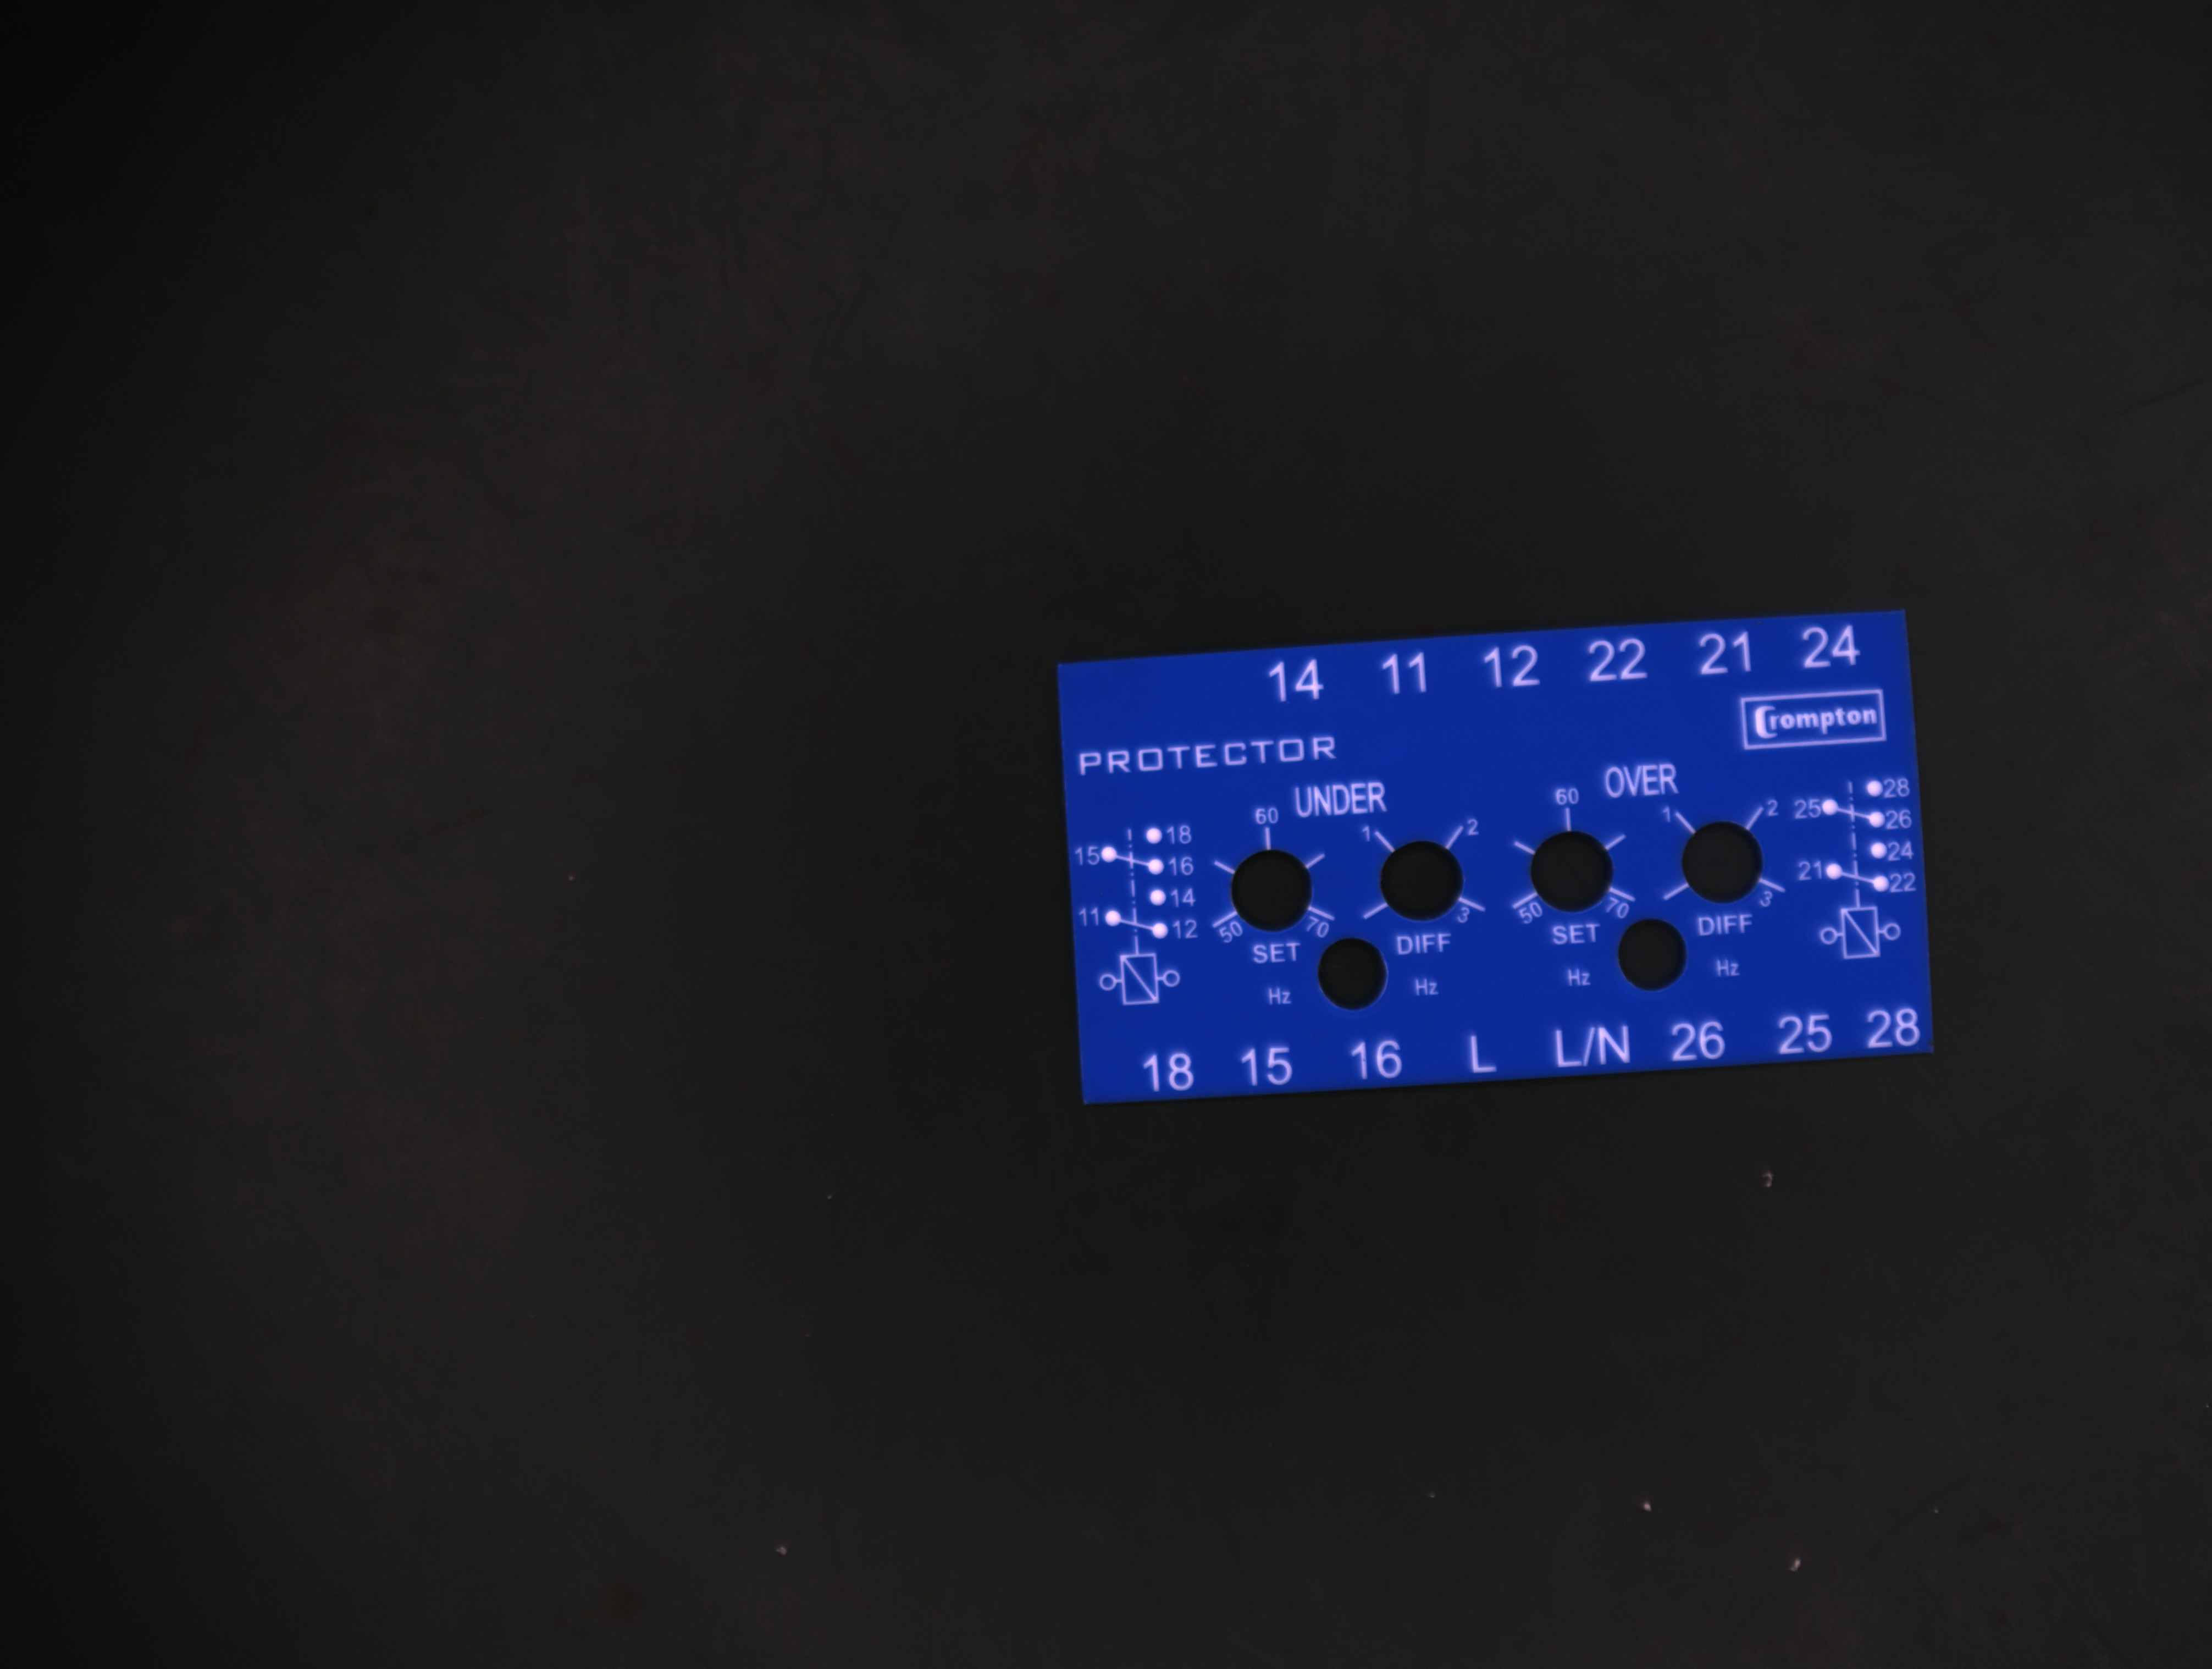
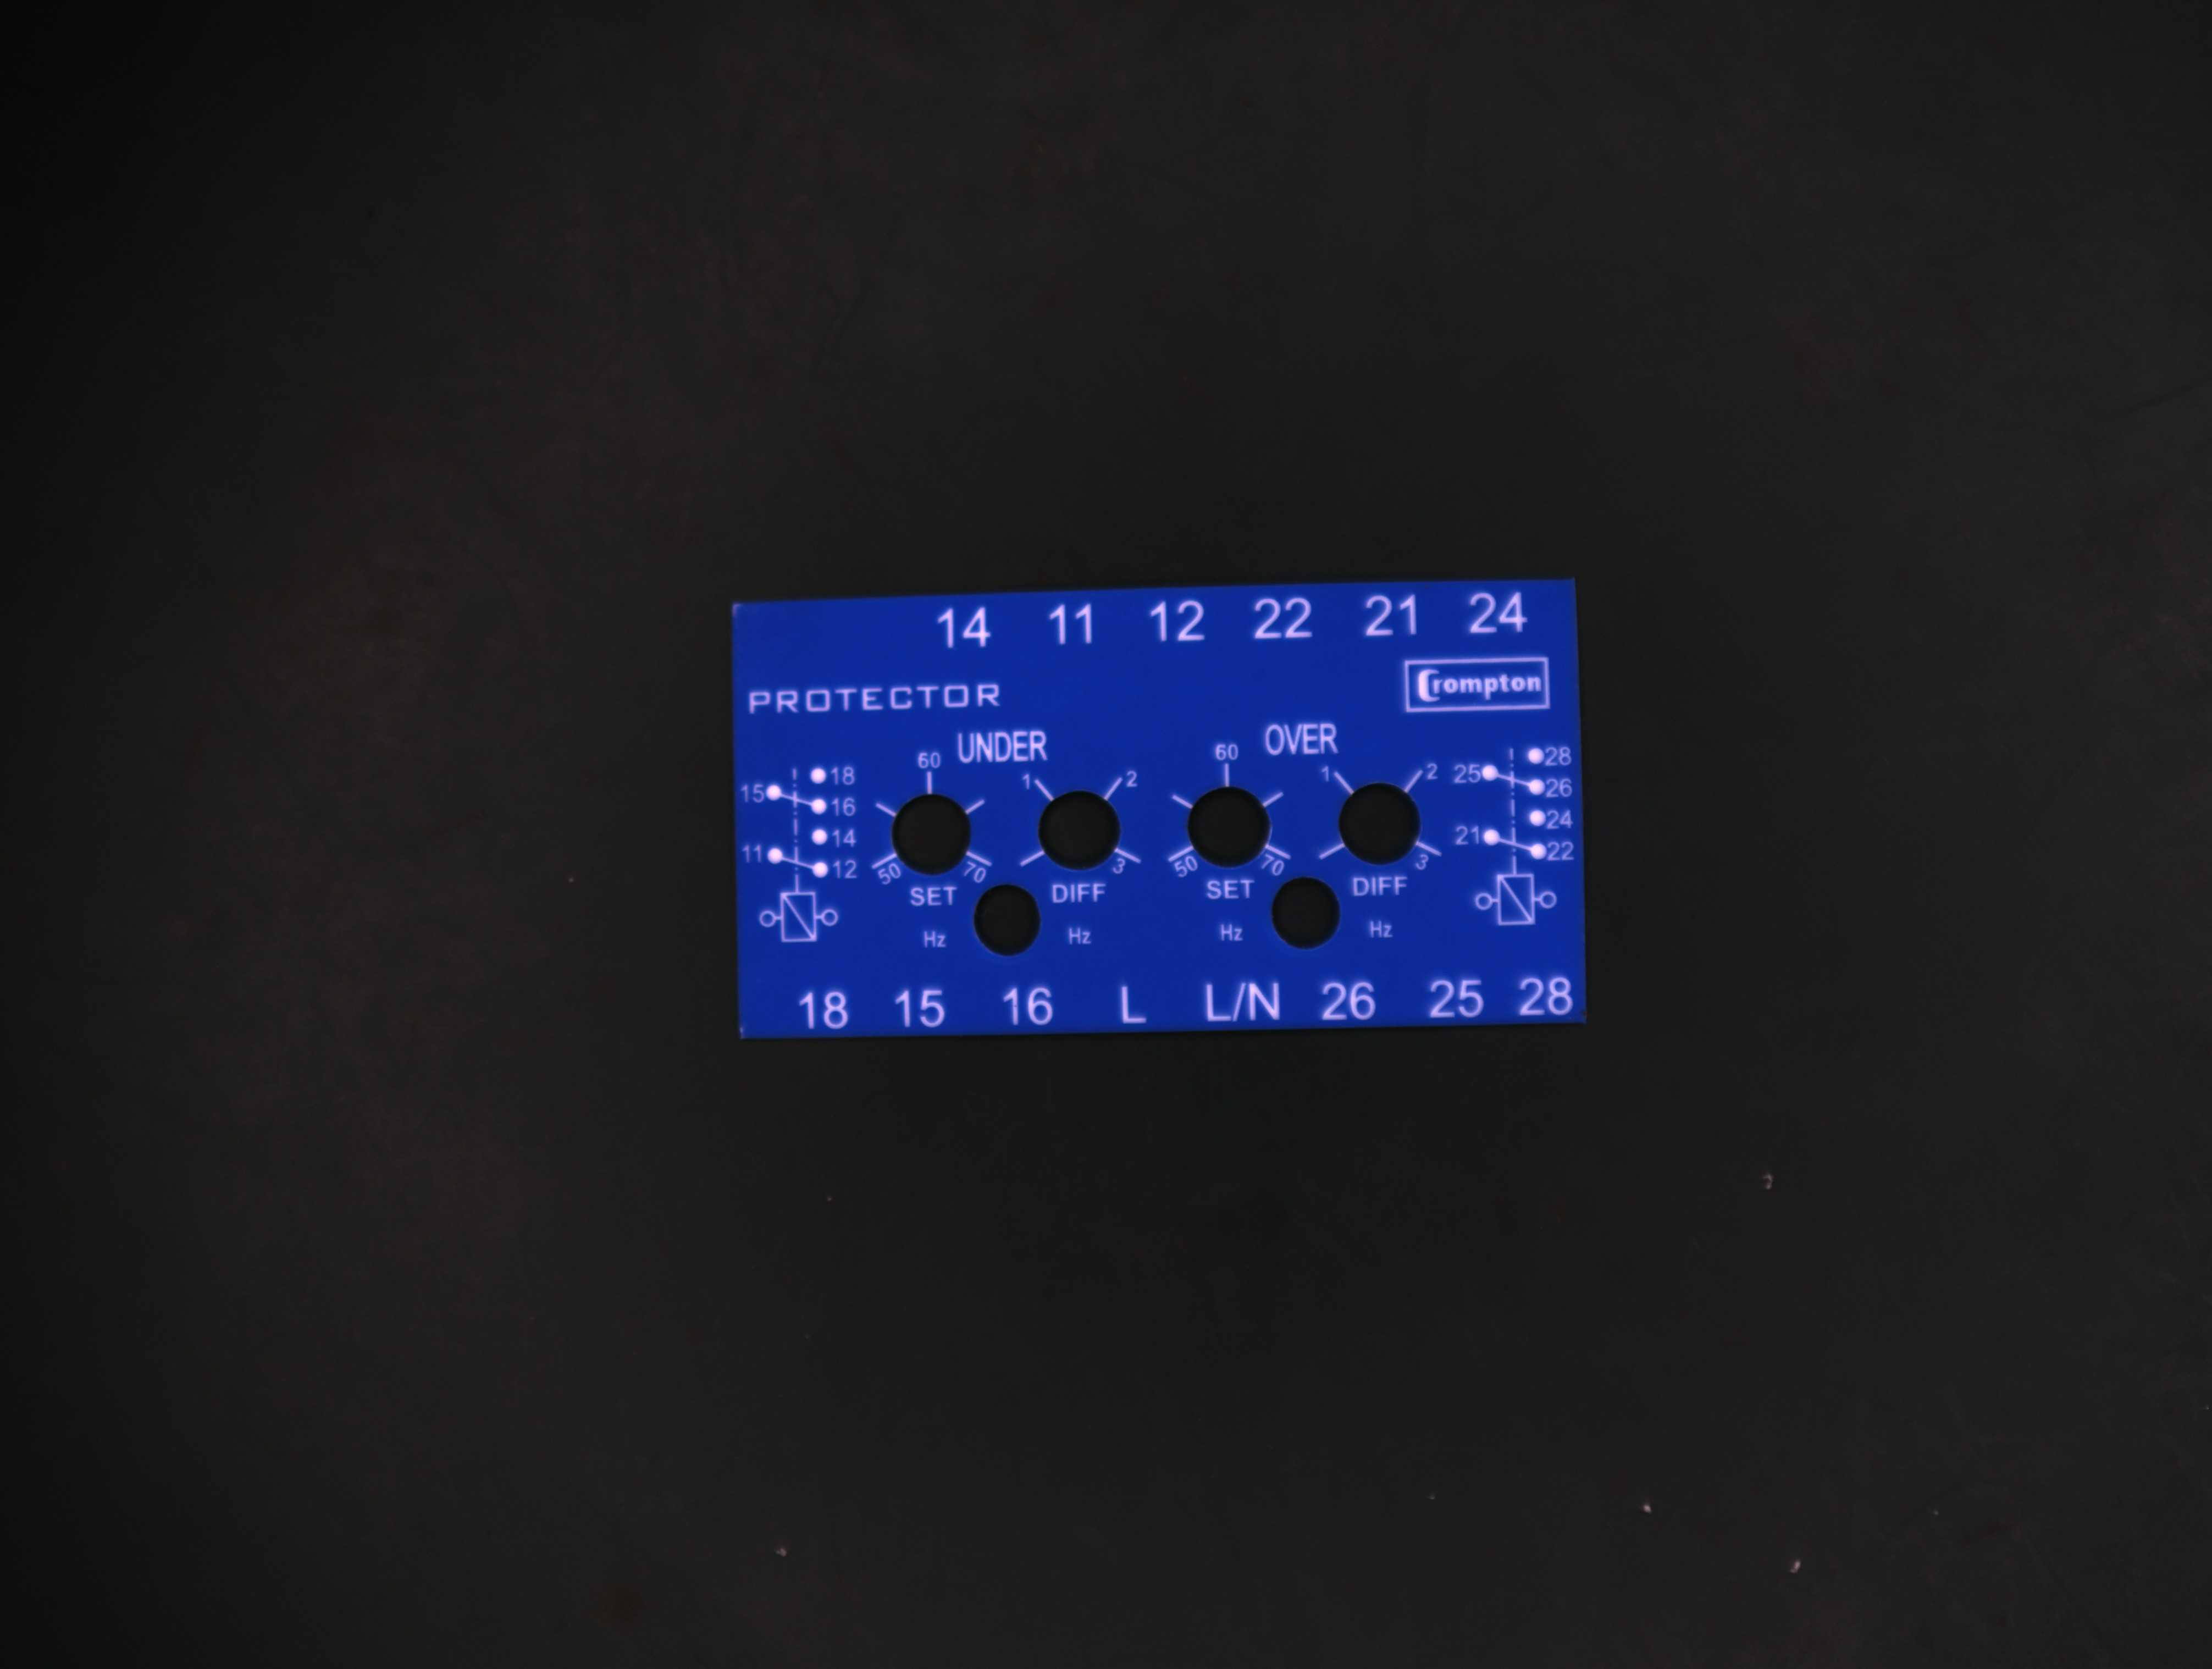
final polish

Changed region(s): [[0.3106, 0.3406, 0.9008, 0.6812]]

diff --git a/vq-app/src/pages/LiveInspectionPage.tsx b/vq-app/src/pages/LiveInspectionPage.tsx
@@ -201,6 +201,7 @@ export default function LiveInspectionPage() {
       }
       setStatus("scanning");
       setCameraStatus("detecting");
+      setCameraActive(true);
       setResult(EMPTY_RESULT);
 
       if (status === "paused") {

diff --git a/vq-edge/main.py b/vq-edge/main.py
@@ -29,7 +29,7 @@ from engine.ocr_engine import OCR_Engine, run_ocr
 INPUT_SOURCE = "image"  # "camera" | "image"
 
 DEMO_IMAGES_DIR = Path(__file__).parent / "demo-images"
-ANOMALY_MODEL_DIR = Path(r"C:\Users\dodhe\OneDrive - Medhavyn Technologies\VisionQ\rangavishwa\ckpt-models")
+MODELS_DIR = Path(__file__).parent / "demo-models"
 
 # Image path per part/condition, e.g. IMAGE_PATHS["crompton"]["good"]
 IMAGE_PATHS: dict[str, dict[str, str]] = {
@@ -53,10 +53,10 @@ IMAGE_PATHS: dict[str, dict[str, str]] = {
 
 # Anomaly model checkpoint per part (shared across good/bad since it's the same part).
 ANOMALY_MODEL_PATHS: dict[str, str] = {
-    "crompton": str(ANOMALY_MODEL_DIR / "crompton_anomaly.ckpt"),
-    "siemens": str(ANOMALY_MODEL_DIR / "siemens_anomaly.ckpt"),
-    "ashida": str(ANOMALY_MODEL_DIR / "ashida_anomaly.ckpt"),
-    "govern": str(ANOMALY_MODEL_DIR / "govern_anomaly.ckpt"),  # placeholder — model not yet available
+    "crompton": str(MODELS_DIR / "crompton_anomaly.ckpt"),
+    "siemens": str(MODELS_DIR / "siemens_anomaly.ckpt"),
+    "ashida": str(MODELS_DIR / "ashida_anomaly.ckpt"),
+    "govern": str(MODELS_DIR / "govern_anomaly.ckpt"),  # placeholder — model not yet available
 }
 
 # --- Toggle just this to switch which demo part/condition is used ---
@@ -67,9 +67,7 @@ IMAGE_PATH: str | None = IMAGE_PATHS[ACTIVE_PART][ACTIVE_CONDITION]
 
 CAMERA_INDEX = 2
 ANOMALY_MODEL_PATH = ANOMALY_MODEL_PATHS[ACTIVE_PART]
-RFDETR_MODEL_PATH = (
-    r"C:\Users\dodhe\OneDrive - Medhavyn Technologies\VisionQ\sushmi\models-rfdetr\suen_0102ES200700N.pth"
-)
+RFDETR_MODEL_PATH = str(MODELS_DIR / "suen_0102ES200700N.pth")
 OCR_MODEL_DIR: str | None = None
 ANOMALY_THRESHOLD = 0.5
 MASK_THRESHOLD = 128
@@ -189,10 +187,12 @@ class InspectionState:
     # --- lifecycle ---
     def start(self) -> None:
         if self._thread and self._thread.is_alive():
-            # Already running — just unpause
-            self._pause_event.set()
-            self.status = "scanning"
-            return
+            # A previous session (possibly a different part) is still alive
+            # (e.g. left paused without finishing) — stop it before starting fresh.
+            self._stop_event.set()
+            self._pause_event.set()  # unblock if paused so it can exit
+            self._thread.join(timeout=5)
+            self._thread = None
 
         self._stop_event.clear()
         self._pause_event.set()

diff --git a/vq-edge/demo-models/README.md b/vq-edge/demo-models/README.md
@@ -1,0 +1,1 @@
+Copy all part anomaly and rfdetr models here.